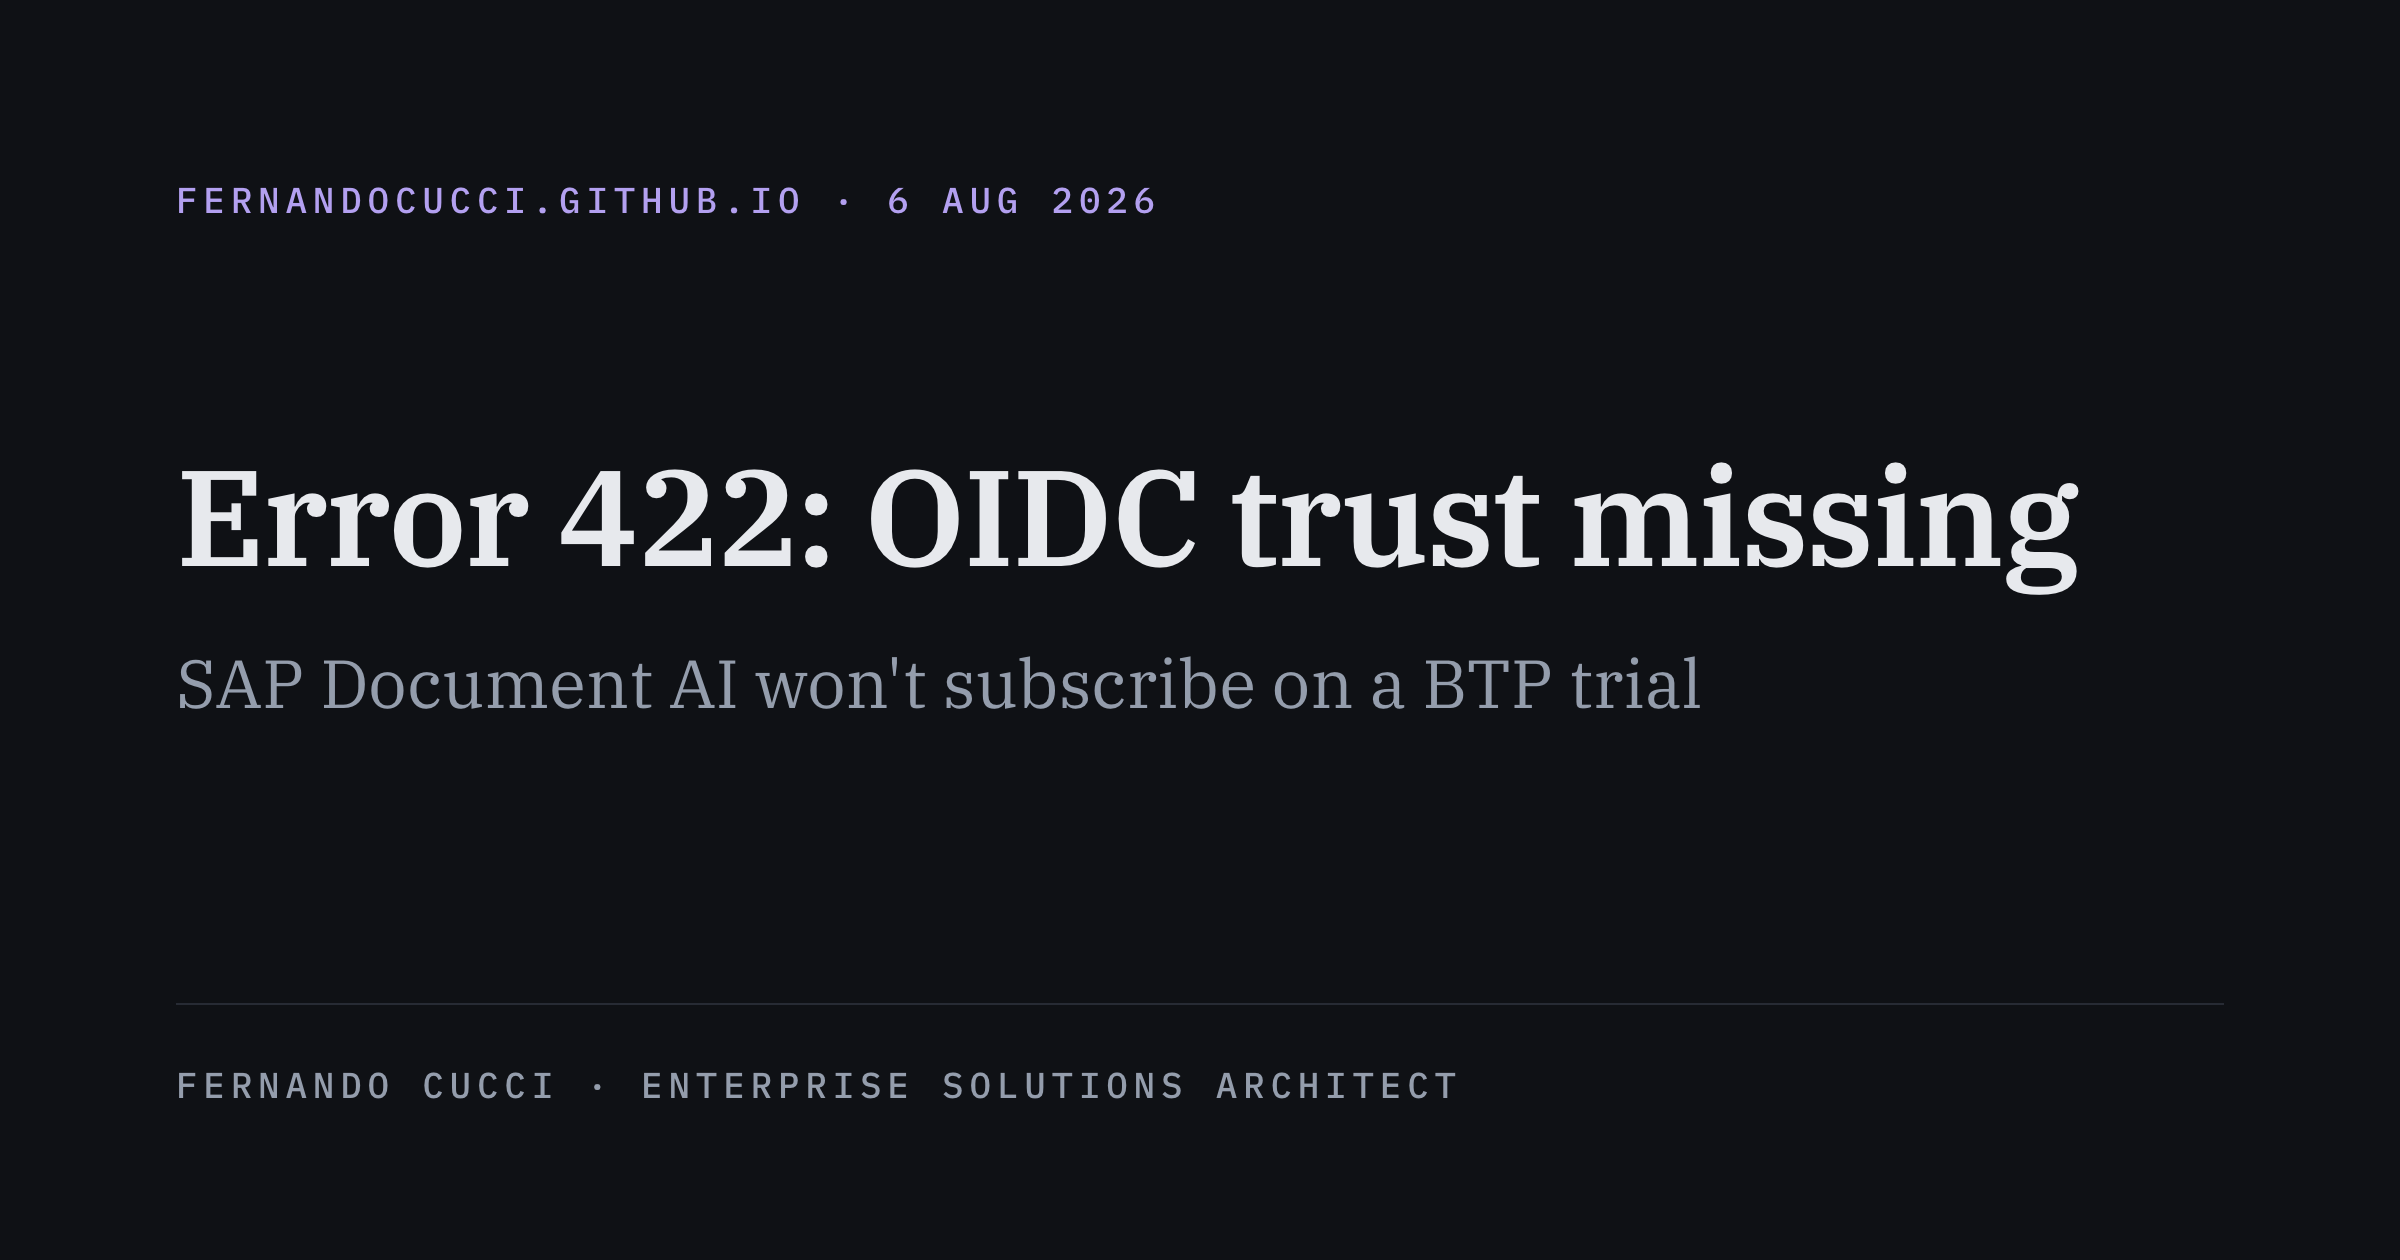
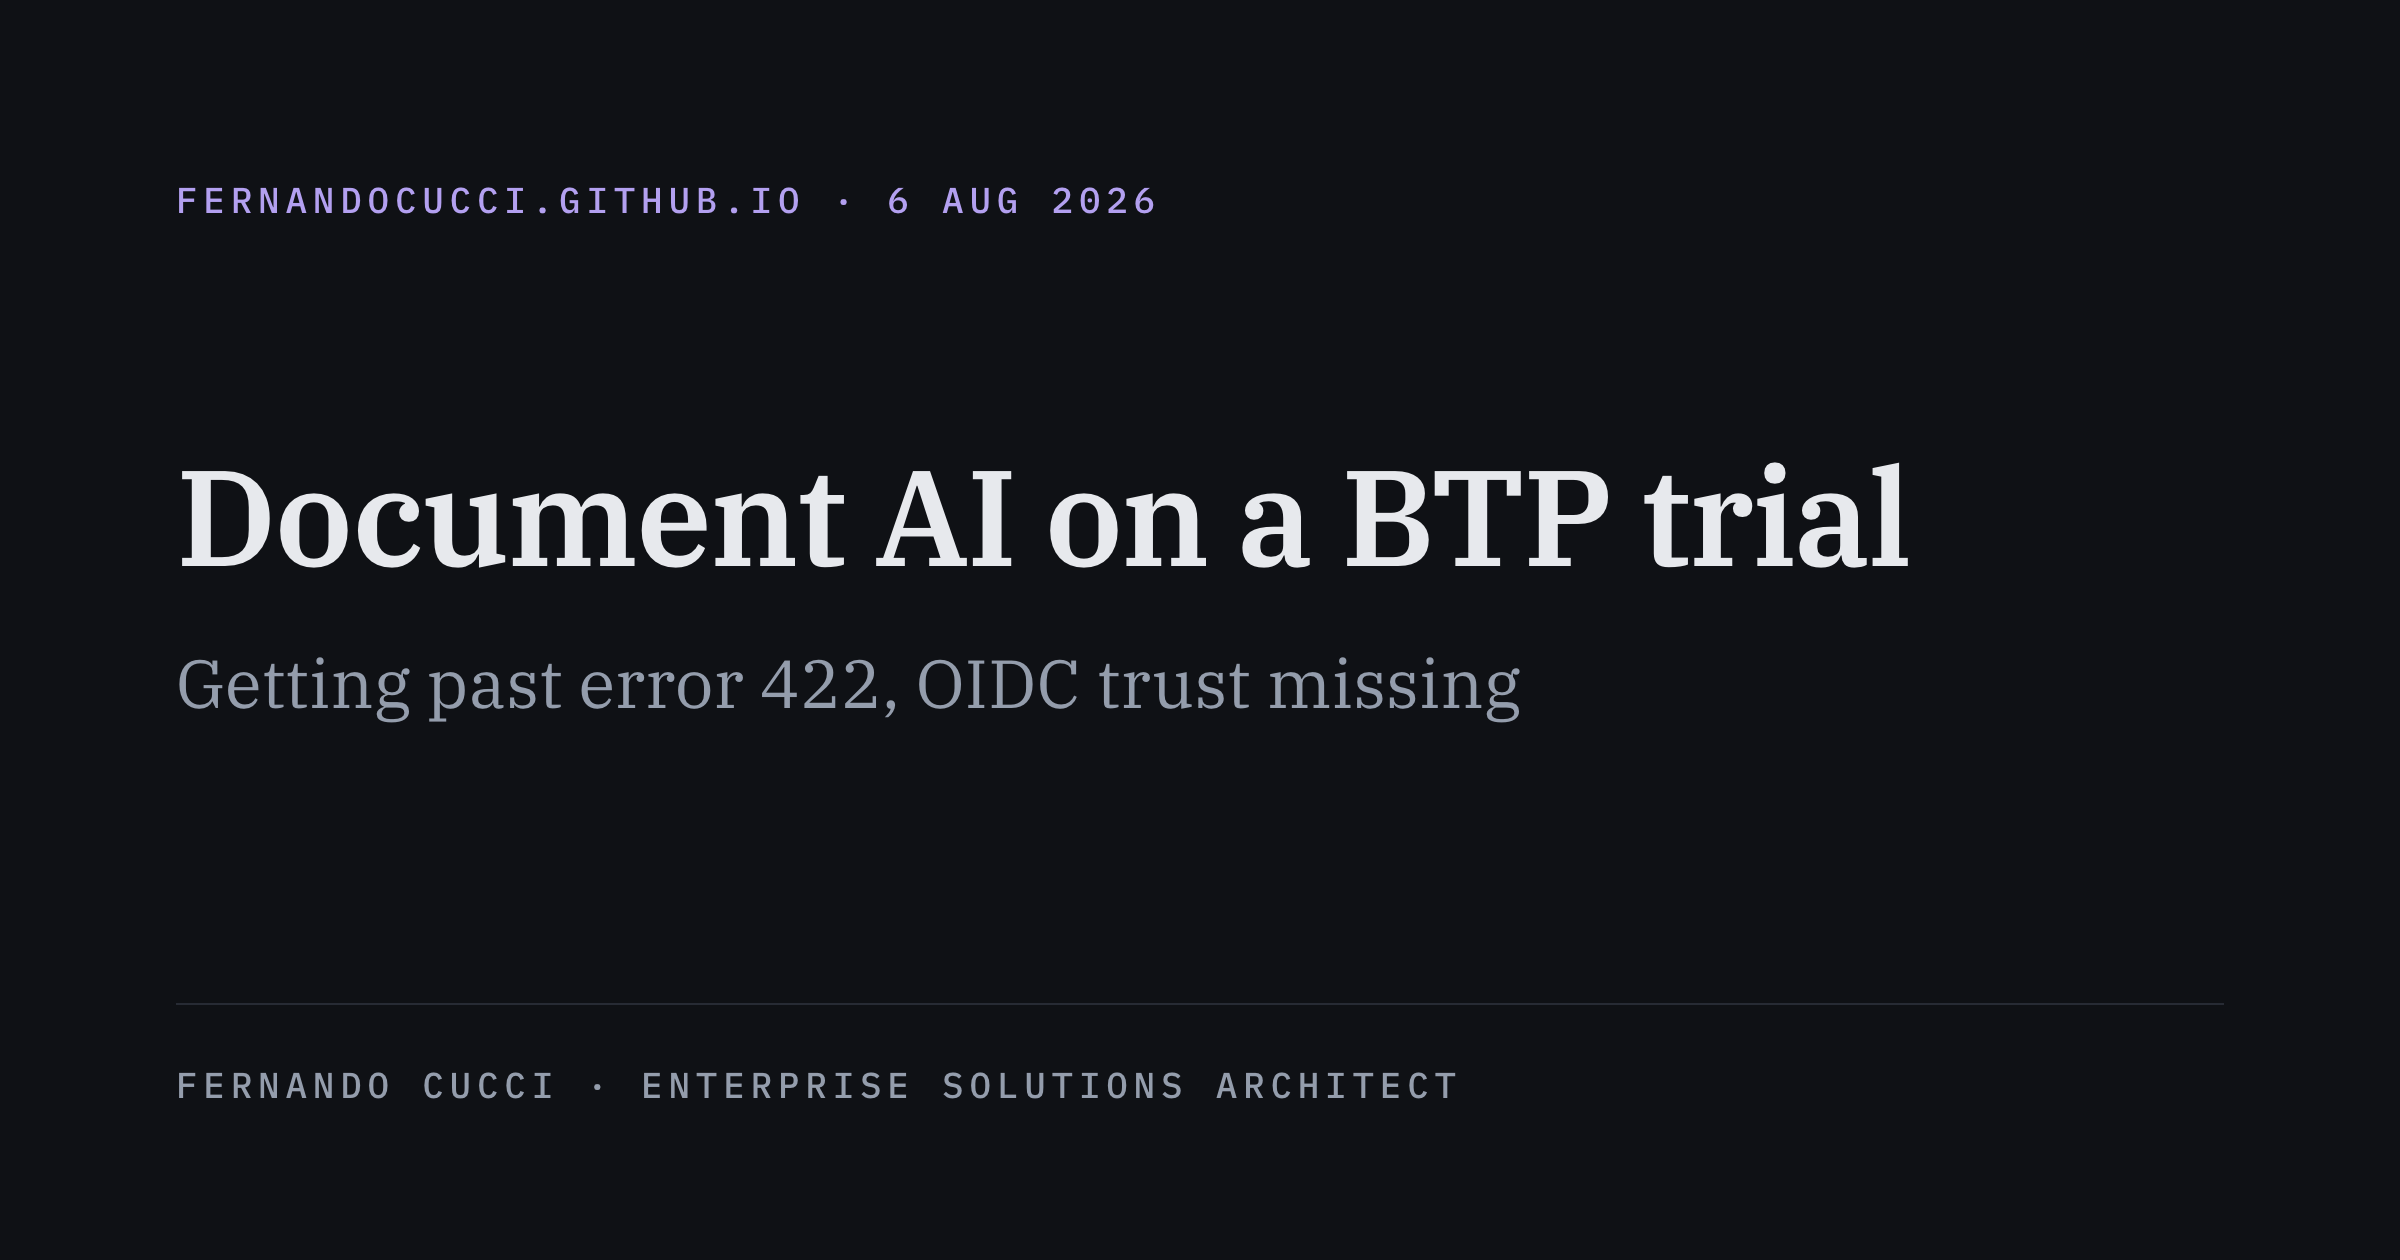
Update title for SAP Document AI subscription guide and modify associated image

Changed region(s): [[0.0938, 0.3714, 0.875, 0.4952], [0.0625, 0.5262, 0.7188, 0.5881]]

diff --git a/_posts/2026-08-06-sap-document-ai-btp-trial-oidc-trust.md b/_posts/2026-08-06-sap-document-ai-btp-trial-oidc-trust.md
@@ -1,6 +1,6 @@
 ---
 layout: post
-title: "SAP Document AI won't subscribe on a BTP trial: error 422, OIDC trust missing"
+title: "How to subscribe to SAP Document AI on a BTP trial"
 date: 2026-08-06
 image: /assets/og/sap-document-ai-btp-trial-oidc-trust.png
 ---
